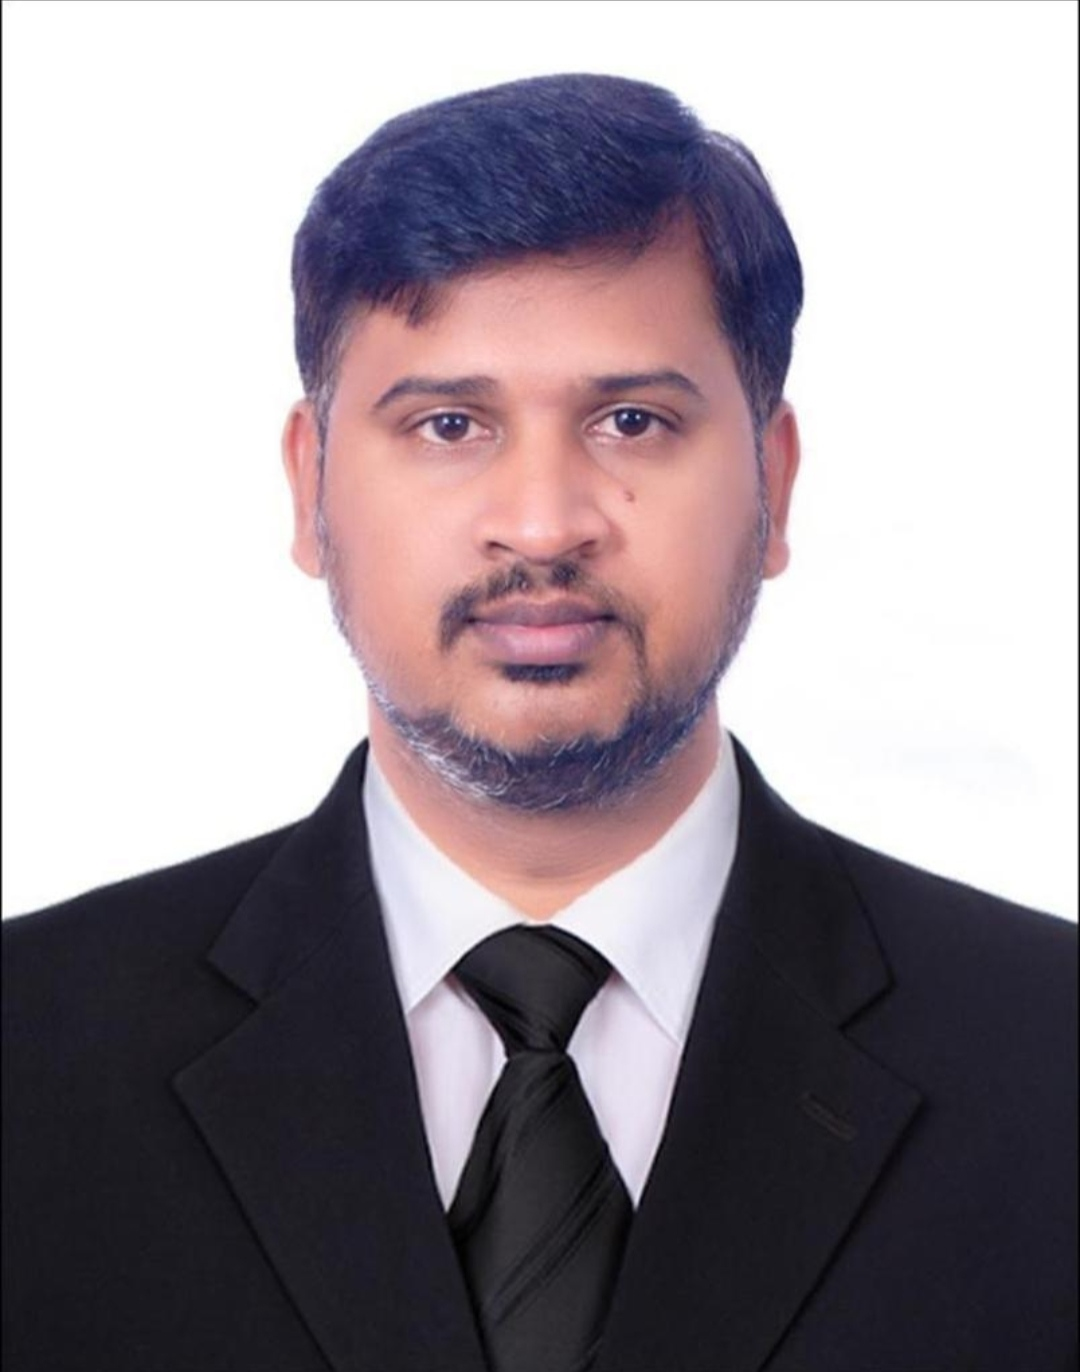
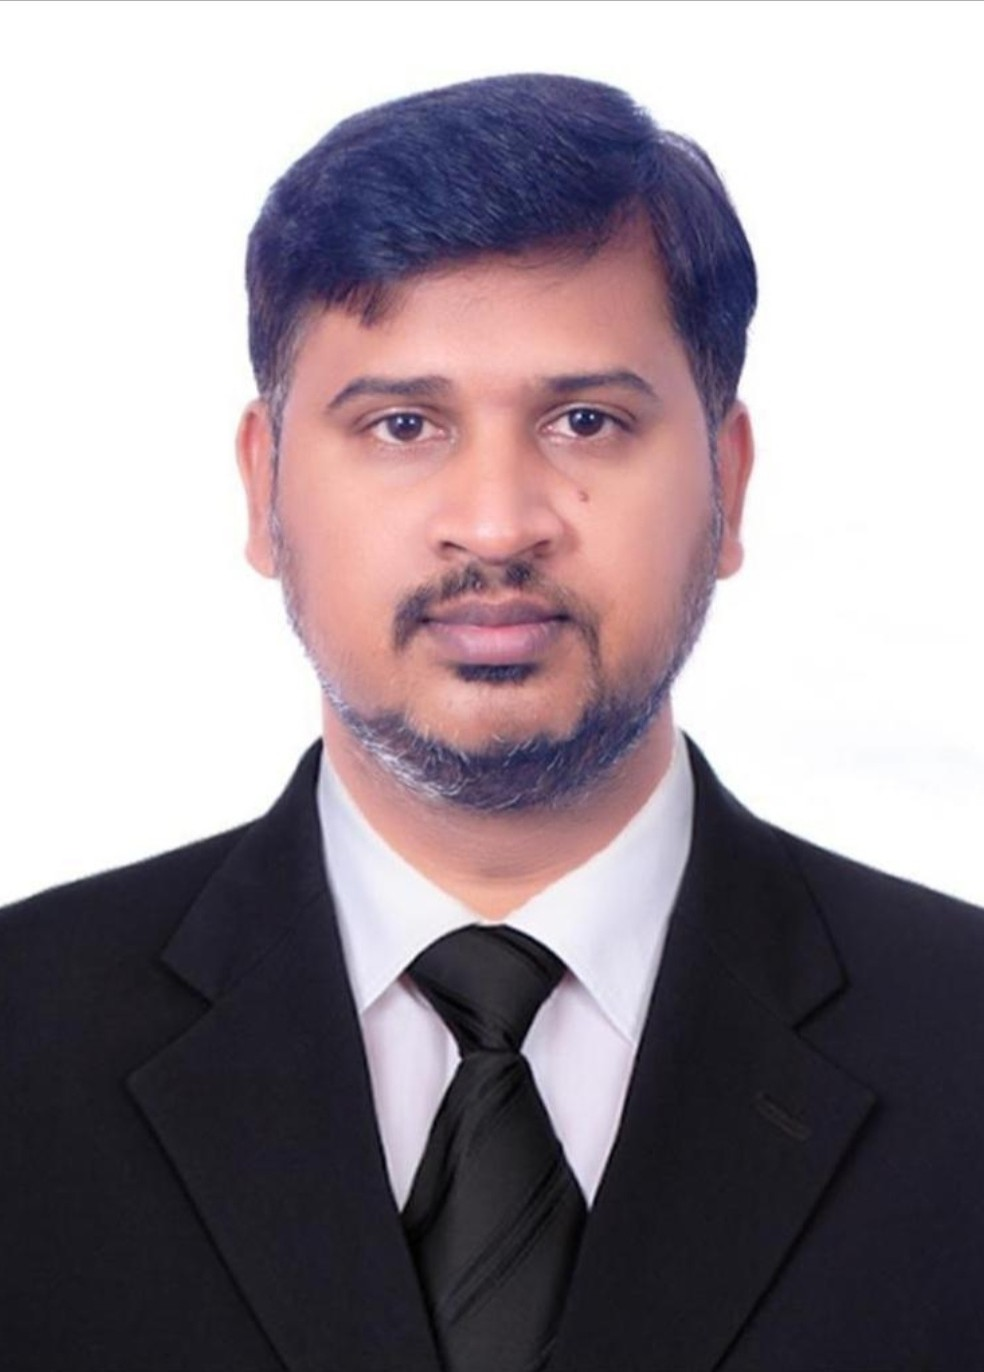
Refine homepage UI, booking flow, certifications and admin improvements

diff --git a/src/routes/index.tsx b/src/routes/index.tsx
@@ -390,7 +390,7 @@ function Hero({ branches }: { branches: BranchStatus[] }) {
   return (
     <section
       id="home"
-      className="relative overflow-hidden bg-background min-h-[85vh] flex items-center pt-28 pb-16 md:pt-28 md:pb-20 lg:pt-24 lg:pb-16"
+      className="relative overflow-hidden bg-background min-h-[85vh] flex items-center pt-20 pb-12 md:pt-20 md:pb-16 lg:pt-16 lg:pb-14"
       onMouseEnter={() => {
         if (!isMobile) setIsHovered(true);
       }}
@@ -1044,9 +1044,11 @@ function Specialties() {
         {FEATURED_SPECIALTIES.slice(0, 4).map((spec, i) => {
           const Icon = spec.icon;
           return (
-            <div
+            <Link
+              to="/specialties"
+              hash={spec.anchor.split("#")[1]}
               key={spec.title}
-              className="group glass-strong rounded-[24px] overflow-hidden hover:-translate-y-1.5 transition-all duration-300 flex flex-col h-full shadow-soft hover:shadow-glow border border-violet/10 hover:border-violet/20"
+              className="group glass-strong rounded-[24px] overflow-hidden hover:-translate-y-1.5 transition-all duration-300 flex flex-col h-full shadow-soft hover:shadow-glow border border-violet/10 hover:border-violet/20 cursor-pointer block text-left"
             >
               {/* Image Container */}
               <div className="aspect-[16/10] w-full overflow-hidden relative bg-slate-100">
@@ -1068,16 +1070,14 @@ function Specialties() {
                 <p className="text-xs sm:text-sm text-muted-foreground leading-relaxed flex-grow mb-4 line-clamp-3">
                   {spec.desc}
                 </p>
-                <Link
-                  to="/specialties"
-                  hash={spec.anchor.split("#")[1]}
+                <div
                   className="inline-flex items-center gap-1 text-xs font-bold text-violet hover:text-violet-deep transition-colors mt-auto"
                 >
                   <span>Learn More</span>
                   <ArrowRight className="h-3.5 w-3.5 transition-transform group-hover:translate-x-1" />
-                </Link>
+                </div>
               </div>
-            </div>
+            </Link>
           );
         })}
       </div>
@@ -1087,9 +1087,11 @@ function Specialties() {
         {FEATURED_SPECIALTIES.map((spec, i) => {
           const Icon = spec.icon;
           return (
-            <div
+            <Link
+              to="/specialties"
+              hash={spec.anchor.split("#")[1]}
               key={spec.title}
-              className="group glass-strong rounded-[24px] overflow-hidden flex flex-col h-full shadow-soft border border-violet/10"
+              className="group glass-strong rounded-[24px] overflow-hidden flex flex-col h-full shadow-soft border border-violet/10 cursor-pointer block text-left"
             >
               {/* Image Container */}
               <div className="aspect-[16/10] w-full overflow-hidden relative bg-slate-100">
@@ -1111,16 +1113,14 @@ function Specialties() {
                 <p className="text-sm text-muted-foreground leading-relaxed flex-grow mb-4 line-clamp-3">
                   {spec.desc}
                 </p>
-                <Link
-                  to="/specialties"
-                  hash={spec.anchor.split("#")[1]}
+                <div
                   className="inline-flex items-center gap-1 text-xs font-bold text-violet hover:text-violet-deep transition-colors"
                 >
                   <span>Learn More</span>
                   <ArrowRight className="h-3.5 w-3.5" />
-                </Link>
+                </div>
               </div>
-            </div>
+            </Link>
           );
         })}
       </MobileCarousel>
@@ -1134,6 +1134,71 @@ function Specialties() {
           View All 35+ Specialties
           <ArrowRight className="h-4 w-4" />
         </Link>
+      </div>
+    </Section>
+  );
+}
+
+function AwardsAndRecognition() {
+  return (
+    <Section id="awards">
+      <div className="grid lg:grid-cols-12 gap-8 lg:gap-12 items-center">
+        {/* Left Side: Award Image Card */}
+        <div className="lg:col-span-5 relative group">
+          <div className="absolute inset-0 bg-gradient-to-r from-amber-500/20 to-orange-start/20 rounded-3xl blur-xl opacity-70 group-hover:opacity-100 transition-opacity pointer-events-none" />
+          <div className="relative glass-strong rounded-[28px] p-4 sm:p-6 border border-amber-500/20 shadow-soft hover:shadow-glow transition-all duration-300 flex items-center justify-center bg-white/40 backdrop-blur-md">
+            <div className="w-full aspect-[4/3] max-h-[360px] flex items-center justify-center overflow-hidden rounded-2xl">
+              <img
+                src="/Awards/IMG_20260626_084430.jpg"
+                alt="Dr. A.P.J. Abdul Kalam Health & Medical Excellence Best Doctor Award 2024"
+                className="w-full h-full object-contain max-h-[340px] drop-shadow-md"
+                loading="lazy"
+              />
+            </div>
+          </div>
+        </div>
+
+        {/* Right Side: Content */}
+        <div className="lg:col-span-7 space-y-6 text-left">
+          <div className="inline-flex items-center gap-2 px-3.5 py-1.5 rounded-full text-xs font-bold uppercase tracking-wider text-amber-600 bg-amber-500/10 border border-amber-500/20">
+            <Award className="h-4 w-4 text-amber-500 shrink-0" />
+            <span>🏆 Awards &amp; Recognition</span>
+          </div>
+
+          <h2 className="font-display text-3xl sm:text-4xl lg:text-5xl font-extrabold leading-tight text-foreground">
+            Recognized for <span className="gradient-text">Medical Excellence</span>
+          </h2>
+
+          <p className="text-sm sm:text-base text-muted-foreground leading-relaxed">
+            We are honored to share that <strong className="text-foreground font-semibold">Dr. D. Ravi Kumar</strong> was conferred with the prestigious <strong className="text-foreground font-semibold">Dr. A.P.J. Abdul Kalam Health &amp; Medical Excellence Best Doctor Award – 2024</strong>. This accolade recognizes exceptional dedication, clinical expertise, and pioneering contributions to patient care, emergency medicine, and critical care across Hyderabad.
+          </p>
+
+          <div className="grid grid-cols-2 sm:grid-cols-3 gap-3 pt-2">
+            <div className="p-3.5 rounded-2xl glass border border-violet/10">
+              <div className="text-[10px] uppercase font-bold tracking-wider text-muted-foreground">Award Title</div>
+              <div className="text-xs sm:text-sm font-bold text-foreground mt-1">Best Doctor Award</div>
+            </div>
+            <div className="p-3.5 rounded-2xl glass border border-violet/10">
+              <div className="text-[10px] uppercase font-bold tracking-wider text-muted-foreground">Award Year</div>
+              <div className="text-xs sm:text-sm font-bold text-violet-deep mt-1">2024</div>
+            </div>
+            <div className="p-3.5 rounded-2xl glass border border-violet/10 col-span-2 sm:col-span-1">
+              <div className="text-[10px] uppercase font-bold tracking-wider text-muted-foreground">Category</div>
+              <div className="text-xs sm:text-sm font-bold text-foreground mt-1">Healthcare &amp; Critical Care</div>
+            </div>
+          </div>
+
+          <div className="pt-2">
+            <Link
+              to="/credentials"
+              className="inline-flex items-center gap-2.5 px-6 py-3.5 rounded-2xl text-sm font-bold text-white gradient-orange shadow-soft hover:shadow-glow hover:-translate-y-0.5 transition-all"
+            >
+              <Award className="h-4 w-4 shrink-0" />
+              <span>View Credentials &amp; Certifications</span>
+              <ArrowRight className="h-4 w-4 shrink-0" />
+            </Link>
+          </div>
+        </div>
       </div>
     </Section>
   );
@@ -2365,7 +2430,7 @@ function LabTests() {
       subtitle="Complete, accurate, and prompt laboratory diagnostics right in your neighborhood."
     >
       <div className="grid lg:grid-cols-12 gap-8 lg:gap-12 items-center">
-        {/* Left Side: Description, Highlights Grid, and CTA */}
+        {/* Left Side: Description, Highlights Grid, and Call Now CTA */}
         <div className="lg:col-span-7 space-y-6 text-left">
           <p className="text-sm sm:text-base text-muted-foreground leading-relaxed">
             Harsha Clinics is equipped with an advanced in-house diagnostic laboratory. We leverage modern biochemistry analyzers and NABL-standard protocols to ensure rapid and accurate testing, helping our doctors provide prompt clinical decisions and treatment plans.
@@ -2395,22 +2460,27 @@ function LabTests() {
             })}
           </div>
 
-          <div className="flex flex-col sm:flex-row items-center gap-4 pt-2">
-            <a
-              href="#book"
-              className="w-full sm:w-auto inline-flex items-center justify-center gap-2 px-6 py-3.5 rounded-2xl text-sm font-bold text-white gradient-orange shadow-soft hover:shadow-glow hover:-translate-y-0.5 transition-all"
-            >
-              <Calendar className="h-4 w-4" />
-              Book Lab Test
-            </a>
-            <span className="text-xs text-muted-foreground flex items-center gap-1.5 font-semibold">
-              <ShieldCheck className="h-4 w-4 text-green-500" />
-              Home sample collection available.
-            </span>
+          <div className="pt-2">
+            <div className="flex flex-col sm:flex-row sm:items-center gap-3">
+              <a
+                href="tel:+918309403610"
+                className="inline-flex items-center justify-center gap-2.5 px-6 py-3.5 rounded-2xl text-sm font-bold text-white gradient-orange shadow-soft hover:shadow-glow hover:-translate-y-0.5 transition-all"
+              >
+                <Phone className="h-4 w-4 animate-pulse" />
+                <span>Call Now for Lab Booking</span>
+              </a>
+              <span className="text-xs text-muted-foreground flex items-center gap-1.5 font-semibold">
+                <ShieldCheck className="h-4 w-4 text-green-500 shrink-0" />
+                Home sample collection available.
+              </span>
+            </div>
+            <p className="text-xs text-muted-foreground mt-2 font-medium">
+              Speak directly with our reception to schedule your laboratory tests.
+            </p>
           </div>
         </div>
 
-        {/* Right Side: Existing Lab Image with beautiful glass card & glow */}
+        {/* Right Side: Lab Image Card */}
         <div className="lg:col-span-5 relative group">
           <div className="absolute inset-0 bg-gradient-to-r from-violet/20 to-orange-start/15 rounded-3xl blur-lg opacity-75 group-hover:opacity-100 transition-opacity pointer-events-none" />
           <div className="relative rounded-3xl overflow-hidden border border-violet/15 shadow-soft hover:shadow-glow transition-all duration-300">
@@ -2534,6 +2604,7 @@ function Home() {
         />
         <About />
         <Specialties />
+        <AwardsAndRecognition />
         <LabTests />
         <Ambulance />
         <ClinicGallery />

diff --git a/src/components/site/FloatingWhatsApp.tsx b/src/components/site/FloatingWhatsApp.tsx
@@ -1,4 +1,5 @@
 import { useState } from "react";
+import { FaWhatsapp } from "react-icons/fa";
 
 export function FloatingWhatsApp() {
   const [hovered, setHovered] = useState(false);
@@ -11,19 +12,16 @@ export function FloatingWhatsApp() {
       onMouseEnter={() => setHovered(true)}
       onMouseLeave={() => setHovered(false)}
       aria-label="Chat on WhatsApp"
-      className="fixed bottom-6 right-6 z-50 flex items-center justify-center h-14 w-14 rounded-full bg-[#25D366] text-white shadow-[0_8px_30px_rgba(37,211,102,0.45)] hover:shadow-[0_12px_40px_rgba(37,211,102,0.65)] transition-all duration-300 hover:scale-110 active:scale-95 group border-2 border-white/20"
+      className="fixed bottom-6 right-6 z-50 flex items-center justify-center h-16 w-16 rounded-full bg-[#25D366] text-white shadow-[0_8px_32px_rgba(37,211,102,0.35)] hover:shadow-[0_12px_40px_rgba(37,211,102,0.55)] transition-all duration-300 hover:scale-110 active:scale-95 group border border-white/20"
     >
       {/* Ambient Pulsing Glow Effect Behind Button */}
-      <span className="absolute inset-0 rounded-full bg-[#25D366] opacity-40 blur-md group-hover:opacity-70 transition-opacity duration-300 pointer-events-none" />
+      <span className="absolute inset-0 rounded-full bg-[#25D366] opacity-40 blur-lg group-hover:opacity-70 transition-opacity duration-300 pointer-events-none" />
 
-      {/* Official WhatsApp SVG Icon - White inside Green */}
-      <svg
-        className="w-8 h-8 fill-white relative z-10 transition-transform duration-300 group-hover:scale-110 group-hover:rotate-6 drop-shadow-sm"
-        viewBox="0 0 24 24"
-        xmlns="http://www.w3.org/2000/svg"
-      >
-        <path d="M17.472 14.382c-.297-.149-1.758-.867-2.03-.967-.273-.099-.471-.148-.67.15-.197.297-.767.966-.94 1.164-.173.199-.347.223-.644.075-.297-.15-1.255-.463-2.39-1.475-.883-.788-1.48-1.761-1.653-2.059-.173-.297-.018-.458.13-.606.134-.133.298-.347.446-.52.149-.174.198-.298.298-.497.099-.198.05-.371-.025-.52-.075-.149-.669-1.612-.916-2.207-.242-.579-.487-.501-.669-.51l-.57-.01c-.198 0-.52.074-.792.372s-1.04 1.016-1.04 2.479 1.065 2.876 1.213 3.074c.149.198 2.095 3.2 5.076 4.487.709.306 1.263.489 1.694.626.712.226 1.36.194 1.872.118.571-.085 1.758-.719 2.006-1.413.248-.695.248-1.29.173-1.414-.074-.124-.272-.198-.57-.347m-5.421 7.403h-.004a9.87 9.87 0 01-5.031-1.378l-.361-.214-3.741.982.998-3.648-.235-.374a9.86 9.86 0 01-1.51-5.26c.001-5.45 4.436-9.884 9.888-9.884 2.64 0 5.122 1.03 6.988 2.898a9.825 9.825 0 012.893 6.99c-.002 5.45-4.437 9.884-9.885 9.884m0-18.333c-4.668 0-8.467 3.799-8.469 8.47 0 1.492.389 2.949 1.127 4.229l.169.292-.668 2.44 2.497-.654.283.168a8.423 8.423 0 004.06 1.05h.004c4.667 0 8.467-3.8 8.469-8.471.001-2.261-.878-4.387-2.479-5.99-1.601-1.601-3.728-2.483-5.993-2.484z" />
-      </svg>
+      {/* Official WhatsApp Icon from react-icons */}
+      <FaWhatsapp
+        size={32}
+        className="relative z-10 text-white transition-transform duration-300 group-hover:scale-110 group-hover:rotate-6 drop-shadow-sm shrink-0"
+      />
 
       {/* Pulsing online indicator dot */}
       <span className="absolute top-0.5 right-0.5 h-3.5 w-3.5 rounded-full bg-white flex items-center justify-center shadow-md z-20">
@@ -33,7 +31,7 @@ export function FloatingWhatsApp() {
 
       {/* Dynamic Hover Tooltip */}
       {hovered && (
-        <span className="absolute right-16 bg-slate-900/95 text-white text-xs font-semibold px-3 py-1.5 rounded-xl shadow-xl whitespace-nowrap animate-fade-in border border-white/10 backdrop-blur-md z-30">
+        <span className="absolute right-18 bg-slate-900/95 text-white text-xs font-semibold px-3 py-1.5 rounded-xl shadow-xl whitespace-nowrap animate-fade-in border border-white/10 backdrop-blur-md z-30">
           Chat with us on WhatsApp
         </span>
       )}
